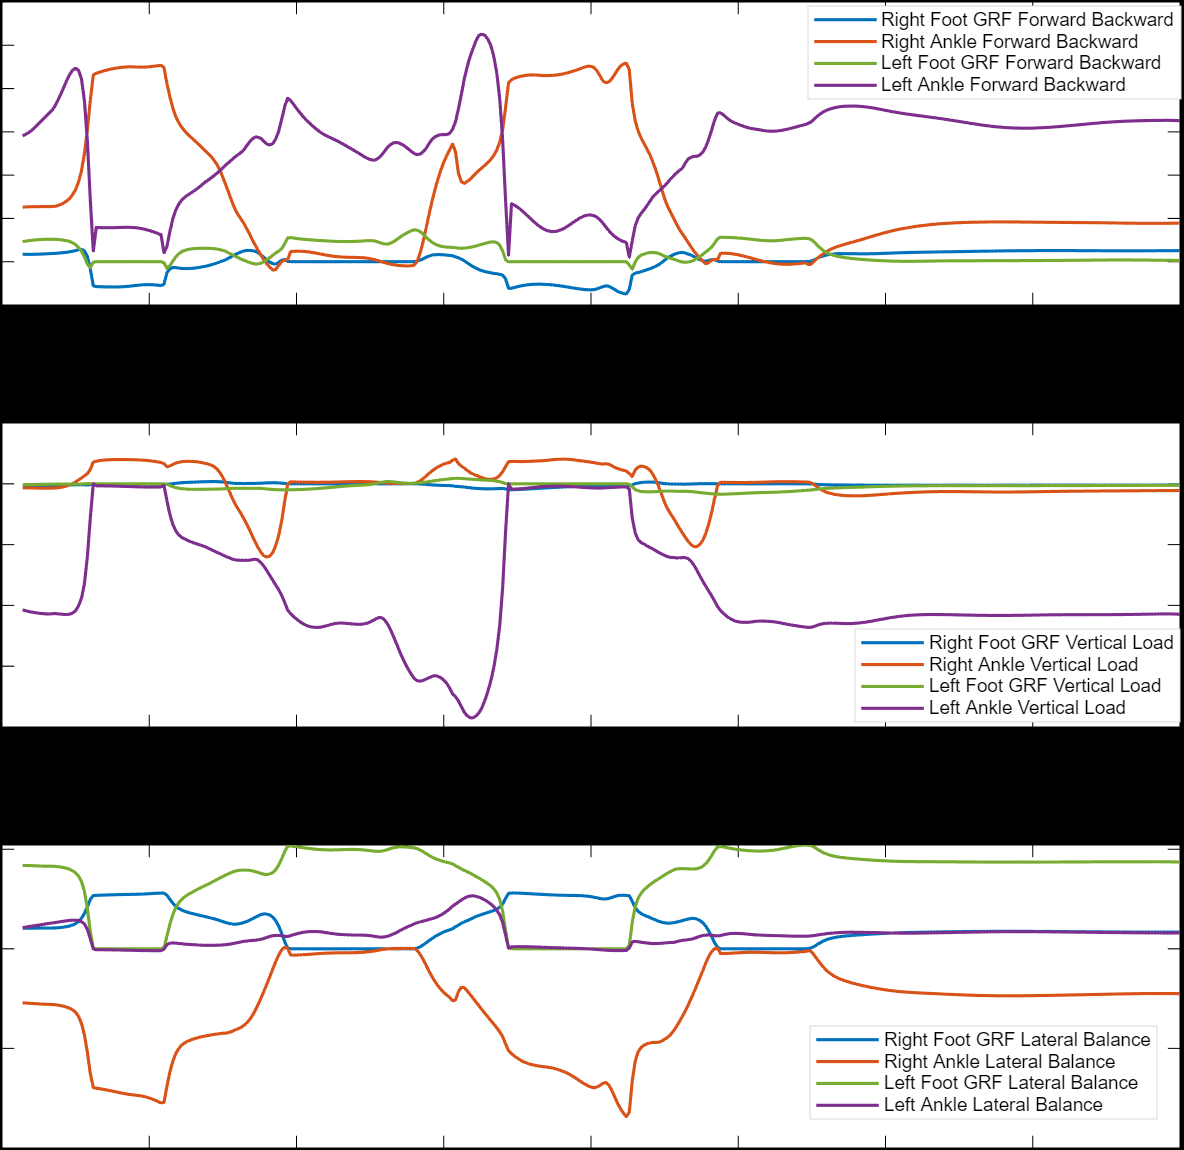
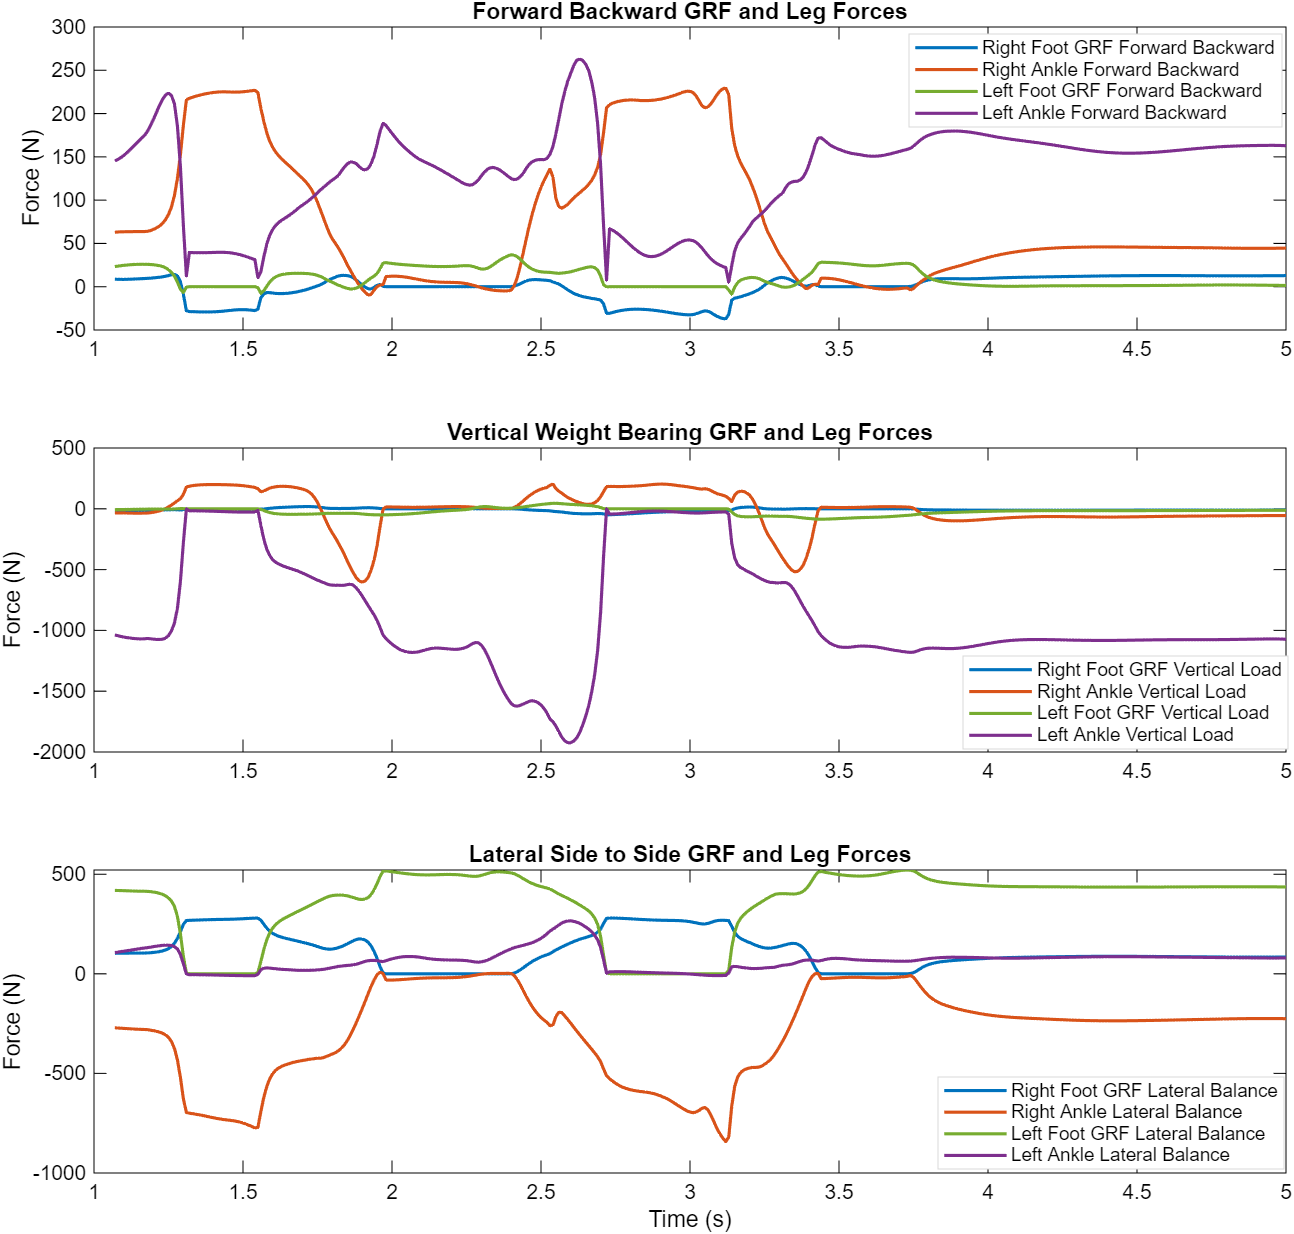
fixed corrupted image and add statistic calculations for HOG vs GRF

diff --git a/plot_GRFvsHOG.m b/plot_GRFvsHOG.m
@@ -1,0 +1,67 @@
+clear;
+clc;
+close all;
+
+set(0, 'DefaultFigureColor', 'w');
+set(0, 'DefaultAxesColor', 'w');
+set(0, 'DefaultAxesXColor', 'k');
+set(0, 'DefaultAxesYColor', 'k');
+set(0, 'DefaultAxesZColor', 'k');
+set(0, 'DefaultTextColor', 'k');
+set(0, 'DefaultLineLineWidth', 1.5);
+
+fprintf('Loading GRF and HandOfGod Data\n');
+
+data_grf = readtable('data_csv/grf_data.csv');
+data_f = readtable('data_csv/follower_hand_data.csv');
+
+time = data_grf.Time;
+
+fig1 = figure('Color', 'w', 'Name', 'GRF Prediction vs HandOfGod Compensation', 'Position', [100 100 1000 800]);
+
+subplot(2,1,1);
+plot(time, data_grf.Right_Fy, 'Color', '#0072BD', 'DisplayName', 'Right Foot Vertical GRF');
+hold on;
+plot(time, data_grf.Left_Fy, 'Color', '#77AC30', 'DisplayName', 'Left Foot Vertical GRF');
+title('Ground Reaction Force Prediction Vertical Load');
+ylabel('Force (N)');
+grid on;
+legend('Location', 'best', 'Color', 'w', 'TextColor', 'k', 'Box', 'on');
+
+subplot(2,1,2);
+plot(time, data_f.LocalForce_Y, 'Color', '#D95319', 'DisplayName', 'HandOfGod Vertical Compensation');
+title('HandOfGod Vertical Weight Bearing Force');
+xlabel('Time (s)');
+ylabel('Force (N)');
+grid on;
+legend('Location', 'best', 'Color', 'w', 'TextColor', 'k', 'Box', 'on');
+
+fprintf('GRF vs HandOfGod plotting complete\n');
+
+% Statistical Analysis for GRF vs Hand of God linear dependency
+grf_R = data_grf.Right_Fy;
+grf_tot = data_grf.Right_Fy + data_grf.Left_Fy;
+hog_Y = data_f.LocalForce_Y;
+
+R_mat_R = corrcoef(grf_R, hog_Y);
+r_R = R_mat_R(1,2);
+r2_R = r_R^2;
+cos_sim_R = dot(grf_R, hog_Y) / (norm(grf_R) * norm(hog_Y));
+
+R_mat_tot = corrcoef(grf_tot, hog_Y);
+r_tot = R_mat_tot(1,2);
+r2_tot = r_tot^2;
+cos_sim_tot = dot(grf_tot, hog_Y) / (norm(grf_tot) * norm(hog_Y));
+
+fprintf('\nSTATISTICAL DEPENDENCE\n');
+fprintf('\n');
+fprintf('RIGHT LEG GRF vs HAND OF GOD\n');
+fprintf('Correlation (r):      %6.4f\n', r_R);
+fprintf('R squared:            %6.4f\n', r2_R);
+fprintf('Cosine Similarity:    %6.4f\n', cos_sim_R);
+fprintf('\n');
+fprintf('TOTAL GRF (Right + Left) vs HAND OF GOD\n');
+fprintf('Correlation (r):      %6.4f\n', r_tot);
+fprintf('R squared:            %6.4f\n', r2_tot);
+fprintf('Cosine Similarity:    %6.4f\n', cos_sim_tot);
+fprintf('\n');

diff --git a/plot_single.m b/plot_single.m
@@ -21,7 +21,7 @@ data_int_leg = readtable('data_csv/interaction_joint_data_right.csv');
 time_single = data_single_arm.Time;
 time_int = data_int_arm.Time;
 
-fig1 = figure('Name', 'Single vs Interaction Forces', 'Position', [100 100 1200 800]);
+fig1 = figure('Color', 'w', 'Name', 'Single vs Interaction Forces', 'Position', [100 100 1200 800]);
 
 subplot(2,2,1);
 plot(time_single, data_single_arm.Force_WristRadioCarpal_DorsoVolarForce, 'Color', '#0072BD', 'DisplayName', 'Single Person Arm Push Pull');

diff --git a/plot_GRF.m b/plot_GRF.m
@@ -16,7 +16,7 @@ data_leg_R = readtable('data_csv/interaction_joint_data_right.csv');
 data_leg_L = readtable('data_csv/interaction_joint_data_left.csv');
 time = data_grf.Time;
 
-fig1 = figure('Name', 'GRF vs Leg Joint Forces', 'Position', [100 100 1000 900]);
+fig1 = figure('Color', 'w', 'Name', 'GRF vs Leg Joint Forces', 'Position', [100 100 1000 900]);
 
 subplot(3,1,1);
 plot(time, data_grf.Right_Fx, 'Color', '#0072BD', 'DisplayName', 'Right Foot GRF Forward Backward'); 

diff --git a/README.md b/README.md
@@ -3,6 +3,33 @@
 
 This project uses MATLAB to extract and analyze biomechanical force and torque data from AnyBody simulation files (.h5). The primary goal is to analyze human interaction forces during a walking task where a helper assists a follower. By evaluating lateral stabilization, vertical weight, and ground reaction forces (GRF), we also compare assisted walking against unassisted single person walking to validate the integrity of the motion capture marker data. We establish physical baselines to train humanoid robots for physical walking assistance. 
 
+## Terminology Guide
+
+
+
+[Image of anatomical planes and directions of the human body]
+
+
+Because AnyBody exports data using anatomical reference frames, here is a simple translation guide for the variables used in the plots and reports.
+
+**The Actors**
+* **Follower:** The human model receiving assistance and leaning on the rod.
+* **Helper:** The human model providing support.
+* **Helper Right / Helper Left:** The specific arm of the Helper being analyzed.
+
+**Wrist Forces (Arm Data)**
+
+
+
+* **ProximoDistal Force (Vertical Lift):** Force traveling along the length of the arm. In this walking task, this represents the Up/Down weight bearing force holding the Follower up.
+* **DorsoVolar Force (Push/Pull):** Force traveling from the back of the hand through the palm. This represents the Forward/Backward forces of pacing and towing the Follower.
+* **Radial Force (Lateral Balance):** Force traveling side to side across the wrist joint. This represents the Left/Right stabilization preventing the Follower from tipping over.
+
+**Ankle Forces (Leg Data)**
+* **ProximoDistal Force:** The vertical force traveling up the leg from the ground.
+* **AnteroPosterior Force:** The forward and backward braking and accelerating forces during a footstep.
+* **MedioLateral Force:** The side to side balancing forces on the ankle.
+
 ## Folders
 
 * `/`: The MATLAB scripts stay here.
